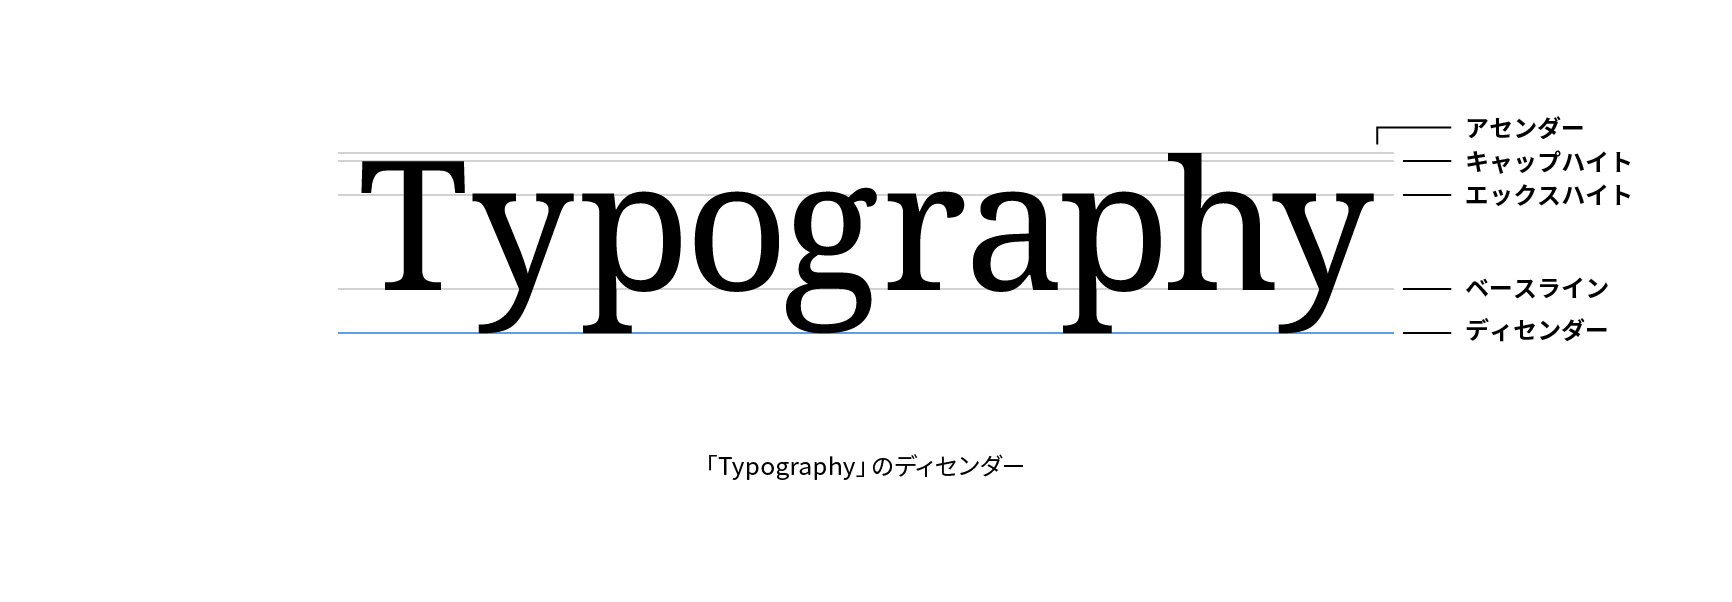
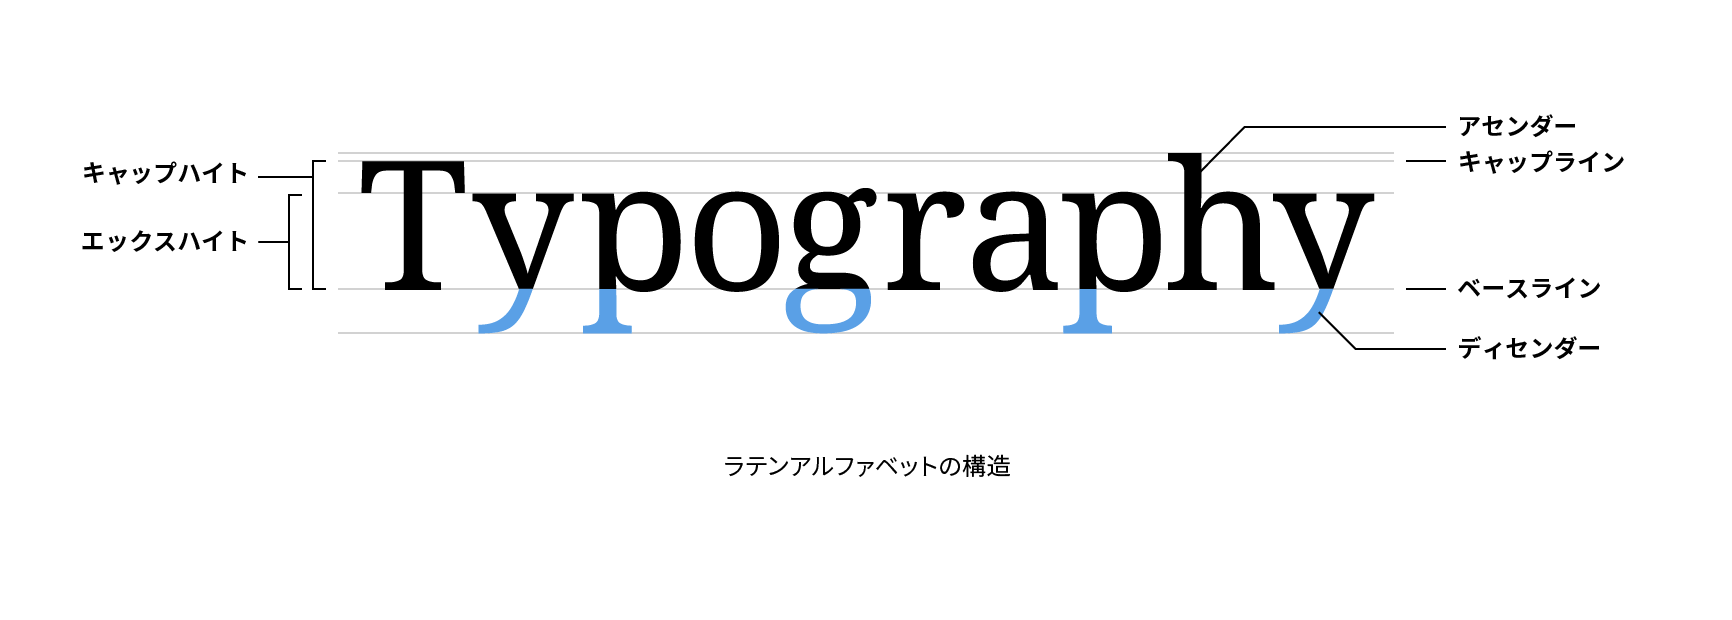
ディセンダー図版修正

diff --git a/terms/descender.md b/terms/descender.md
@@ -2,7 +2,7 @@
 
 ディセンダー（descender）はアルファベットの小文字「g」、「j」、「p」、「q」、「y」のベースラインより下に出ている部分のことです。ディセンダーの下端が接する仮想のラインをディセンダーライン（descender line）といいます。
 
-![「Typography」のディセンダー](../images/descender.png)
+![ラテンアルファベットの構造](../images/descender.png)
 
 ## 関連項目
 
